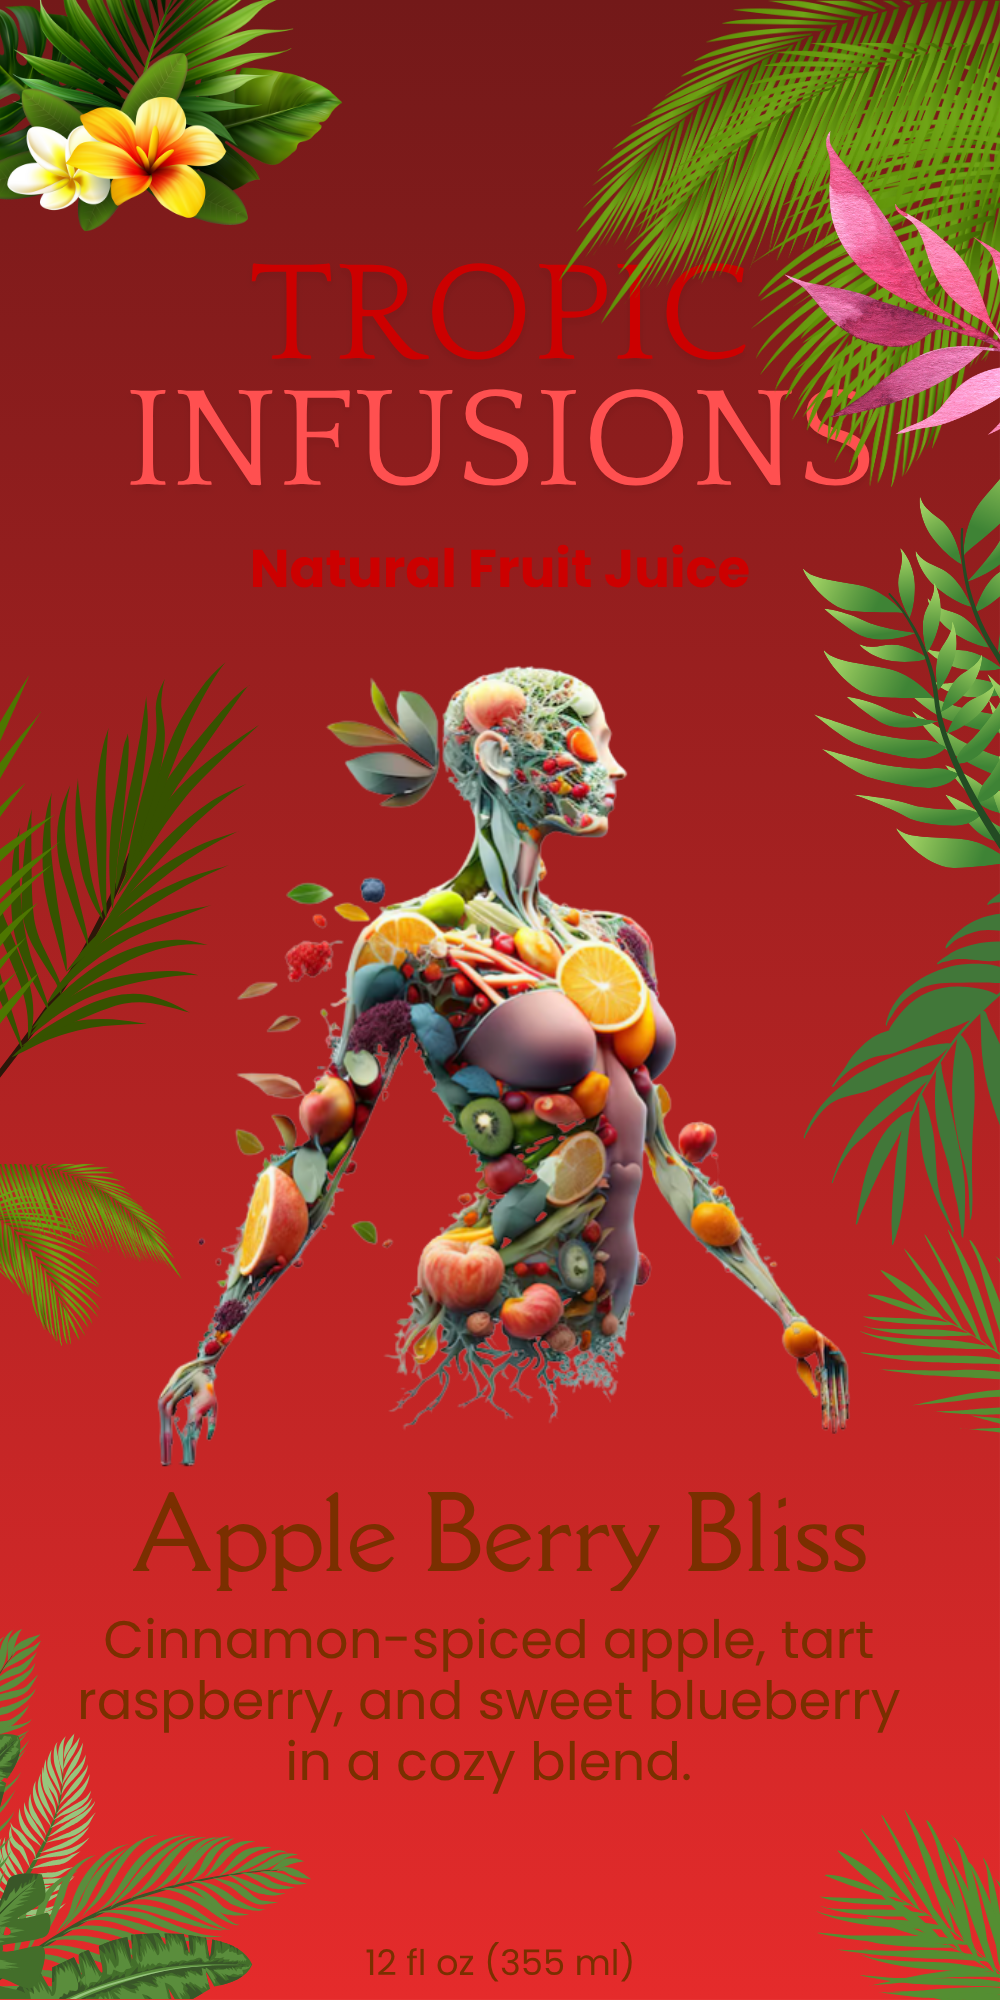
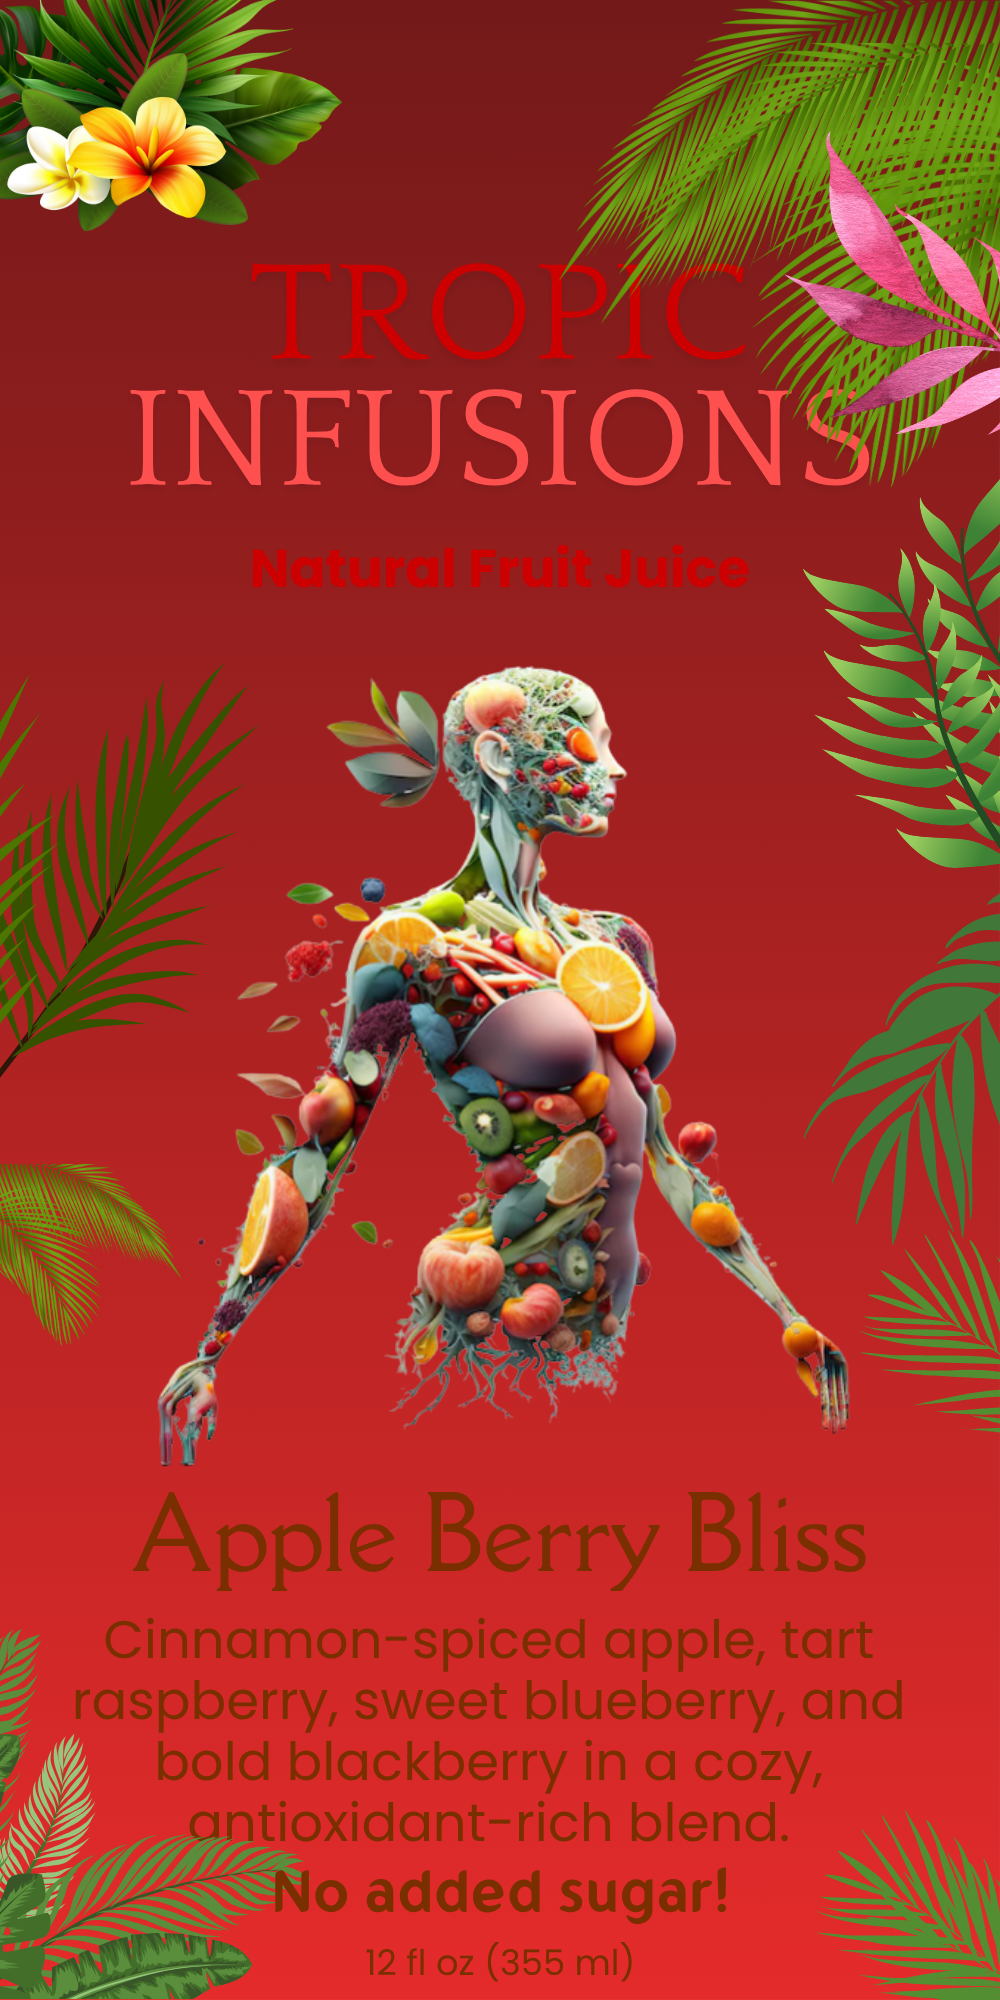
addition of chat

Changed region(s): [[0.062, 0.837, 0.899, 0.961]]

diff --git a/flavors/mesmerizing-melon-berry.html b/flavors/mesmerizing-melon-berry.html
@@ -19,7 +19,7 @@
     <div class="flavor-text">
       <p><strong>Watermelon</strong> is rich in lycopene and vitamin C to support skin health and combat inflammation.</p>
       <p><strong>Strawberry</strong> is rich in vitamin C and antioxidants that support heart health and immunity.</p>
-      <p><strong>Raspberry</strong> High in fiber and polyphenols; helps fight oxidative stress and supports digestive and heart health.</p>
+      <p><strong>Raspberry</strong> is high in fiber and polyphenols; helps fight oxidative stress and supports digestive and heart health.</p>
       <p><strong>Lime</strong> boosts vitamin C intake and aids in digestion and detoxification.</p>
       <p><strong>Mint</strong> soothes the digestive tract, supports fresh breath, and promotes mental clarity.</p>
       <p class="tagline">Berry-bright and deeply hydrating — packed with antioxidants to support skin, immunity, and natural detox.</p>

diff --git a/flavors/apple-berry-bliss.html b/flavors/apple-berry-bliss.html
@@ -19,6 +19,7 @@
     <div class="flavor-text">
       <p><strong>Apple</strong> is rich in fiber and polyphenols — supports digestion, gut health, and heart function.</p>
       <p><strong>Raspberry</strong> High in fiber and polyphenols; helps fight oxidative stress and supports digestive and heart health.</p>
+      <p><strong>Blackberry</strong> is rich in vitamin C and anthocyanins — supports immune health, skin elasticity, and fights oxidative stress.</p>
       <p><strong>Blueberry</strong> A brain-boosting superfruit full of anthocyanins — supports memory, cardiovascular health, and cellular repair.</p>
       <p><strong>Cinnamon</strong> helps regulate blood sugar, support circulation, and boost digestion.</p>
       <p class="tagline">Crisp, cozy, and antioxidant-rich — great for digestion, circulation, and everyday wellness.</p>

diff --git a/index.html b/index.html
@@ -41,5 +41,21 @@
       <a href="https://facebook.com/tropicinfusions">Facebook</a>
     </p>
   </footer>
+
+  <!--Start of Tawk.to Script-->
+  <script type="text/javascript">
+    var Tawk_API = Tawk_API || {}, Tawk_LoadStart = new Date();
+    (function () {
+      var s1 = document.createElement("script"),
+          s0 = document.getElementsByTagName("script")[0];
+      s1.async = true;
+      s1.src = 'https://embed.tawk.to/687fe0fc416fc119149cd6ac/1j0podmrf';
+      s1.charset = 'UTF-8';
+      s1.setAttribute('crossorigin', '*');
+      s0.parentNode.insertBefore(s1, s0);
+    })();
+  </script>
+  <!--End of Tawk.to Script-->
+
 </body>
 </html>
